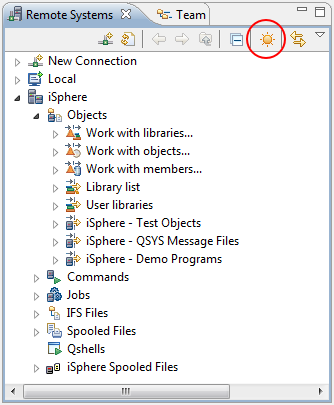
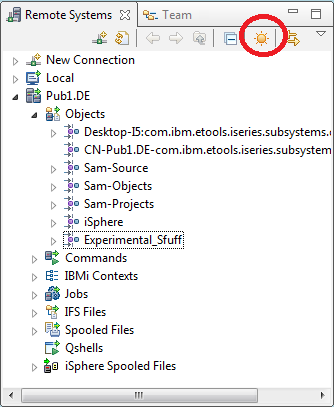
RSE Filter Management: Rewrote Help text

Changed region(s): [[0.0, 0.0, 1.0, 1.0]]

diff --git a/eclipse/iSphere Help Core/html/filtermanagement/filtermanagement.html b/eclipse/iSphere Help Core/html/filtermanagement/filtermanagement.html
@@ -2,67 +2,209 @@
 
 <html>
 <head>
-	<meta http-equiv="Content-Type" content="text/html; charset=iso-8859-1">
-	<link rel="stylesheet" type="text/css" href="../stylesheet.css">
-	<title>RSE Filter Management</title>
+<meta http-equiv="Content-Type" content="text/html; charset=iso-8859-1">
+<link rel="stylesheet" type="text/css" href="../stylesheet.css">
+<title>RSE Filter Management</title>
 </head>
 
 <body>
-<h1>RSE Filter Management</h1>
-<p>
-With iSphere RSE Filter Management you can export single or all filters from your workspace to a 
-repository (XML File). You can import single or all filters from a repository to your workspace. The 
-filters in the workspace and in the repository will be provided in four separate areas.
-<p>
-<ul>
-<li>Filters only in workspace.</li>
-<li>Filters only in repository.</li>
-<li>Filters in workspace and in repository with different type or filter string.</li>
-<li>Filters in workspace and in repository with equal type and filter string.</li>
-</ul>
-<p>
-In the areas you can define actions for the filters you want to perform. The actions are.
-<p>
-<ul>
-<li>Push to workspace.</li>
-<li>Push to repository.</li>
-<li>Delete from workspace.</li>
-<li>Delete from repository.</li>
-<li>Delete from both.</li>
-</ul>
-<p>
-After defining all actions for the specific filters you have to perform the actions. The changes 
-will be applied.
-<p>
-There are several scenarios you might find this new feature useful.
-<p>
-<ul>
-<li>Your workspace is corrupted and you have the need to create a new one. In this case you can 
-export your filters from the old workspace and import them into the new one.</li>
-<li>You want to share your filters with your colleagues.</li>
-<li>You have RDi installed on a computer in your office and at home and want to synchronize 
-your filters.</li>
-</ul>
-<p>
-To open the iSphere RSE Filter Management dialog click on the <i>Sun</i> icon in the upper right 
-corner of the view Remote Systems or select <i>RSE Filter Management</i> from the <i>iSphere</i>
-menu.
-<p>
-<img src="assets/remote_systems_explorer.png" 
-     align="middle">
-<p>
-Specify the filter pool of your workspace and the repository. If the repository you specify does 
-not exist you will be ask for creation.
-<p>
-<img src="assets/rse_filter_management_select_repository.png"
-     align="middle">
-<p>
-Choose first the action for the filters. After this click "Perform actions". The changes will be 
-applied to your workspace and to your repository.
-<p>
-<img src="assets/rse_filter_management_manage_filters.png"
-     align="middle">
-<p>
-<iframe src="../copyright.html" width="100%" frameborder="0" marginheight="0" marginwidth="0"></iframe>
+	<h1>RSE Filter Management</h1>
+	<p>With iSphere RSE Filter Management you can export some or all
+		filters from your workspace to a repository. A repository is an XML
+		file on your local PC or a network drive. You can then import some or
+		all filters from a repository to your workspace. The repository can
+		act as a backup for your filters.
+	<p>Here are some other scenarios where you might find Filter
+		Management useful:
+	<p>
+	<ul>
+		<li>Your workspace is corrupted and you need to create a new one.
+			In this case you can export your filters from the old workspace and
+			import them into the new one.</li>
+		<li>You want to share your filters with your colleagues.</li>
+		<li>You have RDi installed on a computer in your office and at
+			home and want to synchronize your filters.</li>
+	</ul>
+	<p>
+		To open the iSphere RSE Filter Management dialog, click on the <i>Sun</i>
+		icon in the upper right corner of the Remote Systems view, or select <i>RSE
+			Filter Management</i> from the <i>iSphere</i> menu.
+	<p>
+		<img src="assets/remote_systems_explorer.png" align="middle">
+	<h2>Choosing what to Manage</h2>
+	<p>You now need to specify what you want to manage, and also the
+		repository name:
+	<p>
+	<p>
+		<img src="assets/rse_filter_management_manage_choose.png"
+			align="middle">
+	<h3>Editing Area</h3>
+	<p>The filters in the workspace and in the repository will be
+		displayed in up to four separate horizonatl panes.
+	<p>
+	<ul>
+		<li>Filters only in workspace.</li>
+		<li>Filters only in repository.</li>
+		<li>Filters in workspace and in repository with a different type
+			or filter string.</li>
+		<li>Filters in workspace and in repository with an equal type and
+			filter string.</li>
+	</ul>
+
+	Click the appropriate button. The default,
+	<i>Edit workspace and repository files</i>, is suitable for the first
+	time you want to create a new repository.
+	<h3>Single Filter Pool</h3>
+	If this is checked, then you will need to select a filter pool using
+	the
+	<i>Filter Pool</i> drop down below. Only filters in this filter pool
+	will be considered for action, and the filter pool name will not be
+	saved. (Note that even if you never explicitly created a Filter Pool, a
+	default filter pool is created for each connection and it is shown in
+	the
+	<i>Filter Pool</i> drop down.)
+	<P>If this is unchecked, then all filters will be considered for
+		action and the connections between filters and filter pools will be
+		saved.
+	<h3>Repository</h3>
+	Specify the location and name of the repository. A single filter pool
+	repository must have a suffix of
+	<b> .rseflt</b> and a repository for all filters must have a sfuffix of
+	<b> .rsefltall</b>.
+	<p>
+	<h2>Exporting All Filters for the First Time</h2>
+	Suppose we have chosen to manage like this, exporting all filters for
+	the first time to a new repository:
+	<p>
+	<p>
+		<img src="assets/rse_filter_management_manage_choose_all.png"
+			align="middle">
+	<p>When we click [OK] we get a screen like this:
+	<p>
+	<p>
+		<img src="assets/rse_filter_management_manage_action01.png"
+			align="middle">
+	<p>Since this is an export to a new repository, there is only one
+		pane, showing the filters in the workspace.
+	<p>Click [Select all] and all the filters are selected. (Note that
+		you can also select filters in the traditional way, by clicking on them
+		and using the Shift and Ctrl keys.)
+	<p>All the action buttons on the right are now activated:
+	<p>
+		<img src="assets/rse_filter_management_manage_action02.png"
+			align="middle">
+	<p>Click the [Push to Repository] button and the action column is
+		populated for all selected flters:
+	<p>
+		<img src="assets/rse_filter_management_manage_action03.png"
+			align="middle">
+	<p>
+	<p>Now click the [Perform action] button at the bottom left. You
+		get a confirmation prompt :
+	<p>
+		<img src="assets/rse_filter_management_manage_action04.png"
+			align="middle">.
+	<p>If you click [Yes] the repository is updated
+	<p>
+	<h2>Exporting All Filters After a Change</h2>
+	Suppose we create a new filter,
+	<i> LENNONS/XPR-O</i>, in the
+	<i>Experimental_Stuff</i> filter pool. Then we decide to delete the
+	<i>LENNONS2/XPR_2</i> filter. This will be our new filter setup going
+	forward and we want to update our repository. We set up to manage as we
+	did for the first export:
+	<p>
+		<img src="assets/rse_filter_management_manage_choose_all.png"
+			align="middle">
+	<p>
+	<p>Now when we click [OK] we see this:
+	<p>
+		<img src="assets/rse_filter_management_manage_action05.png"
+			align="middle">
+	<p>The 3 horizontal panes show the differences and the similarities
+		between the workspace and the repository.
+	<p>By selecting filters and setting the desired <i>Action</i> using the
+		action buttons on the right, we can bring the workspace and repository
+		into synch:
+	<p>
+		<img src="assets/rse_filter_management_manage_action06.png"
+			align="middle">
+	<p>
+		This is a rather simple example and it might have been easier to just
+		export all filters to a new repository, but you have flexibility in
+		managing as you choose. Note the actions you can define In the <i>Action</i>
+		column:
+	<p>
+	<ul>
+		<li>Push to workspace.</li>
+		<li>Push to repository.</li>
+		<li>Delete from workspace.</li>
+		<li>Delete from repository.</li>
+		<li>Delete from both.</li>
+	</ul>
+	<p>
+	<h2>Restoring Filters and Filter Pools</h2>
+	With a
+	<b>filter</b>, you can subset objects on the server. A filter is a set
+	of definitions and a filter can be used in one or more
+	<b>connections</b>, though it may return a different set of objects on
+	different connections.
+	<p>
+		A <b>filter pool</b> is a group of filters. If you end up with many
+		filters, you can group them into filters pools. A filter pool can also
+		be used in one or more connections.
+	<p>When you restore a filter or a filter pool it may be necessary
+		to assign it to a connection.
+	<p>Suppose we create a brand new workspace but have not yet created
+		a connection, but we want to import our filters. By setting up to manage
+		like this, we can import all our filters:
+	<p>
+		<img src="assets/rse_filter_management_import01.png" align="middle">
+	<p>If we go to the RSE view, we do not see any filters or filter
+		pools:
+	<p>
+		<img src="assets/rse_filter_management_import02.png" align="middle">
+	<p>However, if we switch to the Team view, we can see that the
+		filters and filters pools are there.
+	<p>
+		<img src="assets/rse_filter_management_import03.png" align="middle">
+	<p>
+		We create a connection in the RSE view and then use the <i>View</i>
+		menu to <i>Show Filter Pools</i>:
+	<p>
+		<img src="assets/rse_filter_management_import04.png" align="middle">
+	<p>
+		Now we can right click on <i>Objects</i> and click on <i>Select
+			Filter Pools</i>:
+	<p>
+		<img src="assets/rse_filter_management_import05.png" align="middle">
+	<p>Then pick which filter pools will be assigned to this
+		connection:
+	<p>
+		<img src="assets/rse_filter_management_import06.png" align="middle">
+	<p>
+		Alternatively, you can also assign filters one at a time by creating a
+		new <i>Filter Pool Reference</i>:
+	<p>
+		<img src="assets/rse_filter_management_import07.png" align="middle">
+	<p>
+	<h2>Restoring Filters (saved from a single filter pool)</h2>
+
+	If you are importing a single filter pool, make sure you identify the
+	target filter in the
+	<i>Filter poo</i>l drop down:
+	<p>
+		<img src="assets/rse_filter_management_import08.png" align="middle">
+	<p>Filters you chose to be restored will end up in this filter
+		pool, even if they were saved from another filter pool:
+	<p>
+		<img src="assets/rse_filter_management_import09.png" align="middle">
+	<p>
+
+
+
+
+		<iframe src="../copyright.html" width="100%" frameborder="0"
+			marginheight="0" marginwidth="0"></iframe>
 </body>
 </html>
